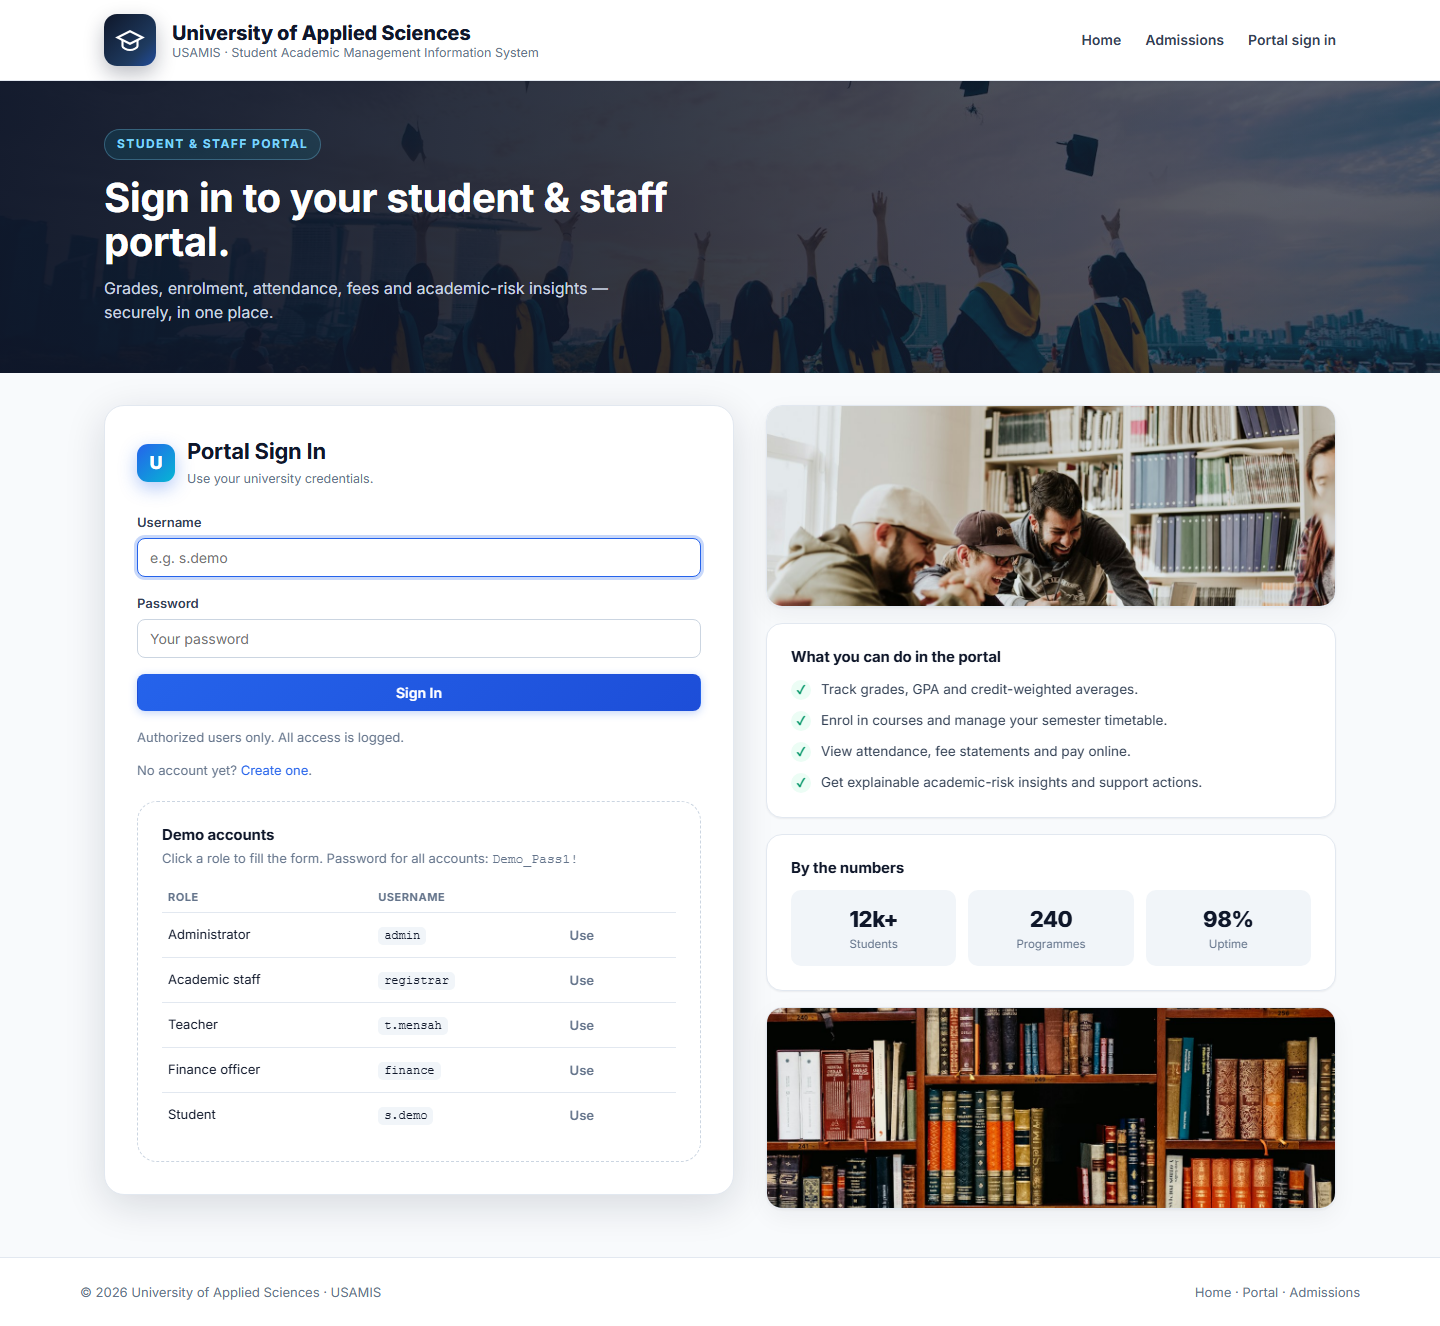
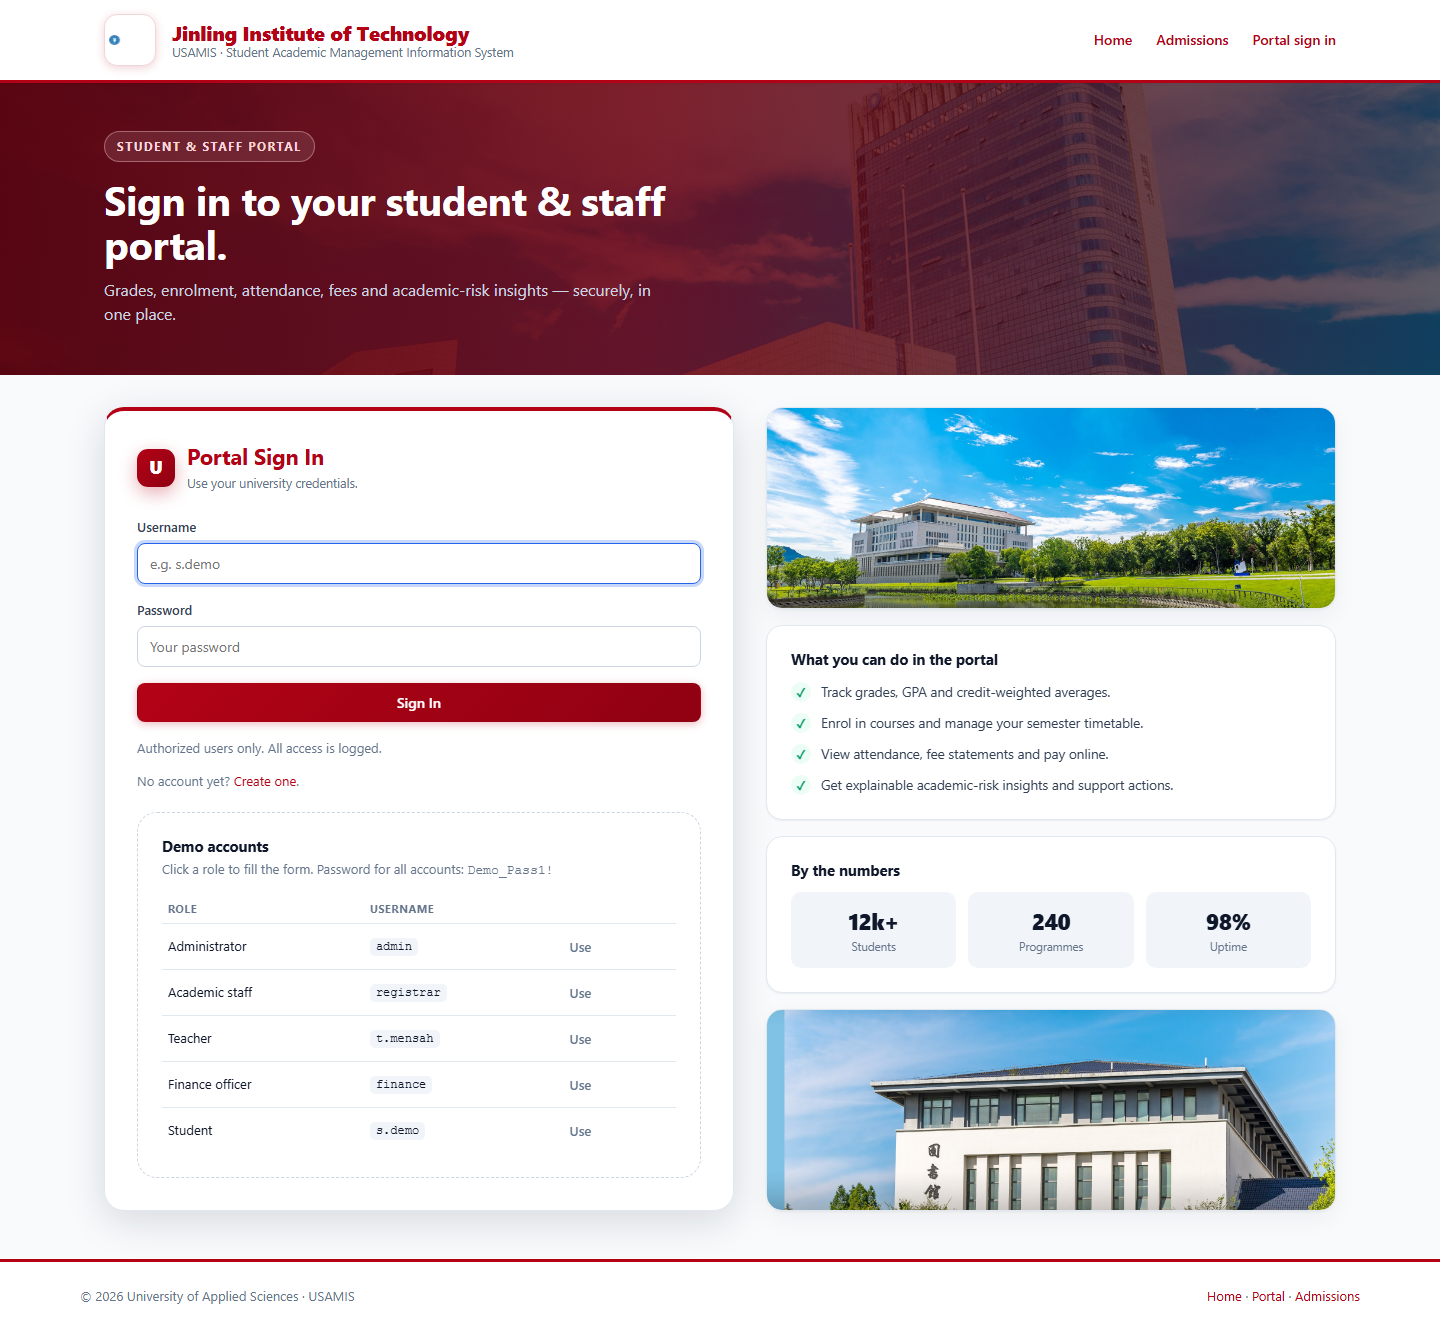
JIT crimson theme for student portal; fix broken classes in payments page
- Public portal + student dashboard re-skinned to JIT institutional crimson
  (#b30216) with authentic JIT logo and campus photography.
- base.html: body carries role-<role> class so the student portal theme
  applies only to students (staff/admin keep the navy app chrome).
- register.html: rebuilt as the split university layout with JIT branding.
- payments/my.html: fixed non-existent CSS classes (form-card/form-grid,
  'btn primary' -> 'btn btn-primary', pill ok/danger -> pill-present/
  pill-rejected) that rendered unstyled; added .card wrapper.
- Added 5 JIT campus photos + JIT crest logo; refreshed screenshots.

Verified: 166 tests pass; 42 role routes return 200; nav grouped and
no broken links; no horizontal overflow on dashboards.

diff --git a/app/templates/auth/register.html b/app/templates/auth/register.html
@@ -1,51 +1,73 @@
 {% extends "public_base.html" %}
 {% block title %}Create Account{% endblock %}
+{% block hero_title %}Create your student account.{% endblock %}
+{% block hero_lede %}New accounts are created as students. Staff and administrator roles are assigned by an administrator.{% endblock %}
 {% block content %}
-<div class="login-card">
-  <div class="login-brand">
-    <span class="brand-mark">U</span>
-    <div>
-      <h1>USAMIS</h1>
-      <p>University Student Academic Management Information System</p>
+<div class="auth-split">
+
+  <div class="login-card">
+    <div class="login-brand">
+      <span class="uni-crest" style="width:44px;height:44px;flex:0 0 44px;">
+        <img src="{{ url_for('static', filename='img/jit-logo.png') }}" alt="JIT crest">
+      </span>
+      <div>
+        <h1 style="font-size:20px;">Create Account</h1>
+        <p>Jinling Institute of Technology · USAMIS</p>
+      </div>
     </div>
+
+    <form method="post" action="{{ url_for('auth.register') }}" class="form">
+      {{ form.hidden_tag() }}
+      <div class="field">
+        {{ form.full_name.label }}
+        {{ form.full_name(class="input", autofocus=true, autocomplete="name", placeholder="Your full name") }}
+        {% for error in form.full_name.errors %}<span class="field-error">{{ error }}</span>{% endfor %}
+      </div>
+      <div class="field">
+        {{ form.username.label }}
+        {{ form.username(class="input", autocomplete="username", placeholder="Choose a username") }}
+        {% for error in form.username.errors %}<span class="field-error">{{ error }}</span>{% endfor %}
+      </div>
+      <div class="field">
+        {{ form.email.label }}
+        {{ form.email(class="input", autocomplete="email", placeholder="you@example.com") }}
+        {% for error in form.email.errors %}<span class="field-error">{{ error }}</span>{% endfor %}
+      </div>
+      <div class="field">
+        {{ form.password.label }}
+        {{ form.password(class="input", autocomplete="new-password", placeholder="Create a password") }}
+        {% for error in form.password.errors %}<span class="field-error">{{ error }}</span>{% endfor %}
+      </div>
+      <div class="field">
+        {{ form.confirm_password.label }}
+        {{ form.confirm_password(class="input", autocomplete="new-password", placeholder="Repeat password") }}
+        {% for error in form.confirm_password.errors %}<span class="field-error">{{ error }}</span>{% endfor %}
+      </div>
+      <button class="btn btn-primary btn-block" type="submit">Create Account</button>
+    </form>
+
+    <p class="muted small">
+      New accounts are created as <strong>students</strong>. Staff and administrator
+      roles are assigned only by an administrator.
+    </p>
+    <p class="muted small">
+      Already registered? <a href="{{ url_for('auth.login') }}">Sign in</a>.
+    </p>
   </div>
 
-  <form method="post" action="{{ url_for('auth.register') }}" class="form">
-    {{ form.hidden_tag() }}
-    <div class="field">
-      {{ form.full_name.label }}
-      {{ form.full_name(class="input", autofocus=true, autocomplete="name") }}
-      {% for error in form.full_name.errors %}<span class="field-error">{{ error }}</span>{% endfor %}
+  <aside class="auth-info">
+    <div class="info-photo">
+      <img src="{{ url_for('static', filename='img/jit-4.jpg') }}" alt="Jinling Institute of Technology campus">
     </div>
-    <div class="field">
-      {{ form.username.label }}
-      {{ form.username(class="input", autocomplete="username") }}
-      {% for error in form.username.errors %}<span class="field-error">{{ error }}</span>{% endfor %}
+    <div class="info-card">
+      <h3>Applying to study at JIT?</h3>
+      <ul class="auth-highlights">
+        <li><span class="tick">✓</span> Create your account to access the student portal.</li>
+        <li><span class="tick">✓</span> Enrol in courses once your student record is created.</li>
+        <li><span class="tick">✓</span> Track grades, attendance and fees in one place.</li>
+      </ul>
     </div>
-    <div class="field">
-      {{ form.email.label }}
-      {{ form.email(class="input", autocomplete="email") }}
-      {% for error in form.email.errors %}<span class="field-error">{{ error }}</span>{% endfor %}
-    </div>
-    <div class="field">
-      {{ form.password.label }}
-      {{ form.password(class="input", autocomplete="new-password") }}
-      {% for error in form.password.errors %}<span class="field-error">{{ error }}</span>{% endfor %}
-    </div>
-    <div class="field">
-      {{ form.confirm_password.label }}
-      {{ form.confirm_password(class="input", autocomplete="new-password") }}
-      {% for error in form.confirm_password.errors %}<span class="field-error">{{ error }}</span>{% endfor %}
-    </div>
-    <button class="btn btn-primary btn-block" type="submit">Create Account</button>
-  </form>
+  </aside>
 
-  <p class="muted small">
-    New accounts are created as <strong>students</strong>. Staff and administrator
-    roles are assigned only by an administrator.
-  </p>
-  <p class="muted small">
-    Already registered? <a href="{{ url_for('auth.login') }}">Sign in</a>.
-  </p>
 </div>
 {% endblock %}

diff --git a/app/static/css/app.css b/app/static/css/app.css
@@ -674,6 +674,70 @@ body.public {
 .grade-hero .gh-ring .gh-val small { display: block; font-size: 10px; font-weight: 600; color: var(--muted); letter-spacing: .06em; text-align: center; }
 .grade-hero .gh-stats { display: grid; grid-template-columns: repeat(auto-fit, minmax(110px, 1fr)); gap: var(--sp-3); flex: 1; min-width: 240px; }
 
+/* ============================================================================
+   JIT institutional theme — crimson brand (Jinling Institute of Technology)
+   Applied to the public portal + student portal. Base palette is unchanged
+   for the authenticated app chrome; this layer re-skins the public surfaces.
+   ========================================================================== */
+
+body.public { --jit: #b30216; --jit-dark: #8f0112; --jit-accent: #2e7374; }
+
+/* ---------- Student portal (authenticated) — JIT crimson ---------- */
+body.role-student { --royal: #b30216; --royal-dark: #8f0112; --info: #b30216; --info-bg: #fdf2f3; }
+body.role-student .sidebar {
+  background: linear-gradient(180deg, #5b010b 0%, #3f0108 100%);
+}
+body.role-student .brand-mark { background: linear-gradient(135deg, #b30216, #8f0112); }
+body.role-student .nav a.is-active,
+body.role-student .nav button.nav-link.is-active {
+  background: linear-gradient(90deg, rgba(179,2,22,.30), rgba(120,2,15,.14));
+  box-shadow: inset 3px 0 0 #ff6b7a;
+}
+body.role-student .progress > span { background: linear-gradient(90deg, #b30216, #ff6b7a); }
+body.role-student .grade-hero .gh-ring { background: conic-gradient(#b30216 calc(var(--p) * 1%), var(--surface-2) 0); }
+body.role-student .welcome-banner { background: linear-gradient(120deg, #5b010b 0%, #7a0210 60%, #a90a1e 100%); }
+body.role-student .welcome-banner::after {
+  background: linear-gradient(90deg, rgba(60,1,8,.95) 0%, rgba(91,1,11,.74) 50%, rgba(20,4,6,.32) 100%);
+}
+body.role-student .welcome-banner .wb-eyebrow { color: #ffd7db; background: rgba(255,255,255,.10); border-color: rgba(255,215,219,.36); }
+body.role-student .welcome-banner .btn-primary { background: linear-gradient(135deg, #ff4d5e, #b30216); }
+body.role-student .course-card .cc-code { background: #fdf2f3; color: #b30216; }
+body.role-student .course-card .cc-top { background: linear-gradient(135deg, #fdf2f3, #fff); }
+
+/* Masthead: crimson institutional bar */
+body.public .uni-masthead { background: #fff; border-bottom: 3px solid var(--jit); }
+body.public .uni-crest {
+  background: #fff; box-shadow: 0 2px 10px rgba(179, 2, 22, .18);
+  border: 1px solid #f0d6d9; padding: 4px; overflow: hidden;
+}
+body.public .uni-crest img { width: 100%; height: 100%; object-fit: contain; }
+body.public .uni-crest svg { display: none; }
+body.public .uni-name { color: var(--jit); }
+body.public .uni-masthead-nav a:hover { color: var(--jit); }
+
+/* Hero: crimson institutional gradient over campus photo */
+body.public .uni-hero::after {
+  background: linear-gradient(90deg, rgba(91,1,11,.95) 0%, rgba(120,2,15,.80) 45%, rgba(20,4,6,.45) 100%);
+}
+body.public .uni-hero-eyebrow {
+  color: #ffd7db; background: rgba(255,255,255,.10); border-color: rgba(255,215,219,.38);
+}
+
+/* Primary actions in crimson */
+body.public .btn-primary {
+  background: linear-gradient(135deg, var(--jit), var(--jit-dark));
+  box-shadow: 0 2px 8px rgba(179,2,22,.28);
+}
+body.public .btn-primary:hover { background: linear-gradient(135deg, var(--jit-dark), var(--jit)); }
+body.public .login-card { border-top: 4px solid var(--jit); }
+body.public .login-card h1 { color: var(--jit); }
+body.public .brand-mark {
+  background: linear-gradient(135deg, var(--jit), var(--jit-dark));
+  box-shadow: 0 6px 18px rgba(179,2,22,.32);
+}
+body.public a { color: var(--jit); }
+body.public .uni-footer { border-top: 3px solid var(--jit); }
+
 /* ---------- Responsive ---------- */
 @media (max-width: 1000px) {
   .grid-2-1 { grid-template-columns: 1fr; }

diff --git a/app/templates/payments/my.html b/app/templates/payments/my.html
@@ -21,20 +21,20 @@
 </div>
 
 {% if balance.balance > 0 %}
-<form method="post" action="{{ url_for('payments.start') }}" class="form-card">
-  <input type="hidden" name="csrf_token" value="{{ csrf_token() }}">
-  <div class="form-grid">
+<div class="card narrow">
+  <form method="post" action="{{ url_for('payments.start') }}" class="form">
+    <input type="hidden" name="csrf_token" value="{{ csrf_token() }}">
     <div class="field">
       <label for="amount">Amount to pay <span class="req">*</span></label>
-      <input type="number" step="0.01" min="0.01" id="amount" name="amount"
+      <input type="number" step="0.01" min="0.01" id="amount" name="amount" class="input"
              value="{{ '%.2f'|format(balance.balance) }}" required>
-      <small class="hint">Maximum {{ '%.2f'|format(balance.balance) }}.</small>
+      <span class="hint">Maximum {{ '%.2f'|format(balance.balance) }}.</span>
     </div>
-  </div>
-  <div class="form-actions">
-    <button class="btn primary" type="submit">Pay now</button>
-  </div>
-</form>
+    <div class="form-actions">
+      <button class="btn btn-primary" type="submit">Pay now</button>
+    </div>
+  </form>
+</div>
 {% else %}
 <div class="empty"><div class="empty-icon">✅</div>You have no outstanding balance.</div>
 {% endif %}
@@ -50,8 +50,8 @@
       <td><code>{{ i.reference }}</code></td>
       <td>{{ i.currency }} {{ '%.2f'|format(i.amount) }}</td>
       <td>
-        {% if i.status == 'paid' %}<span class="pill ok">paid</span>
-        {% elif i.status == 'failed' %}<span class="pill danger">failed</span>
+        {% if i.status == 'paid' %}<span class="pill pill-present">paid</span>
+        {% elif i.status == 'failed' %}<span class="pill pill-rejected">failed</span>
         {% else %}<span class="pill">{{ i.status }}</span>{% endif %}
       </td>
       <td class="muted">{{ i.created_at.strftime('%Y-%m-%d %H:%M') }}</td>

diff --git a/app/templates/public_base.html b/app/templates/public_base.html
@@ -13,10 +13,10 @@
   <header class="uni-masthead">
     <div class="uni-masthead-inner">
       <span class="uni-crest" aria-hidden="true">
-        <svg viewBox="0 0 24 24"><path d="M22 10L12 5 2 10l10 5 10-5z"/><path d="M6 12v5c0 1 3 3 6 3s6-2 6-3v-5"/></svg>
+        <img src="{{ url_for('static', filename='img/jit-logo.png') }}" alt="Jinling Institute of Technology crest">
       </span>
       <div class="uni-titles">
-        <div class="uni-name">University of Applied Sciences</div>
+        <div class="uni-name">Jinling Institute of Technology</div>
         <div class="uni-tagline">USAMIS · Student Academic Management Information System</div>
       </div>
       <nav class="uni-masthead-nav" aria-label="Institution links">
@@ -29,8 +29,8 @@
 
   {% block hero %}
   <section class="uni-hero">
-    <img class="uni-hero-img" src="{{ url_for('static', filename='img/campus-hero.jpg') }}"
-         alt="University campus" loading="eager">
+    <img class="uni-hero-img" src="{{ url_for('static', filename='img/jit-3.jpg') }}"
+         alt="Jinling Institute of Technology campus" loading="eager">
     <div class="uni-hero-inner">
       <span class="uni-hero-eyebrow">Student &amp; Staff Portal</span>
       <h1>{% block hero_title %}Your campus, one secure sign-in.{% endblock %}</h1>

diff --git a/app/templates/auth/login.html b/app/templates/auth/login.html
@@ -59,7 +59,7 @@
   {# ---------- Campus info panel ---------- #}
   <aside class="auth-info">
     <div class="info-photo">
-      <img src="{{ url_for('static', filename='img/students.jpg') }}" alt="Students on campus">
+      <img src="{{ url_for('static', filename='img/jit-5.jpg') }}" alt="Jinling Institute of Technology campus">
     </div>
 
     <div class="info-card">
@@ -82,7 +82,7 @@
     </div>
 
     <div class="info-photo">
-      <img src="{{ url_for('static', filename='img/library.jpg') }}" alt="University library">
+      <img src="{{ url_for('static', filename='img/jit-6.jpg') }}" alt="Jinling Institute of Technology campus">
     </div>
   </aside>
 

diff --git a/app/templates/base.html b/app/templates/base.html
@@ -9,7 +9,7 @@
   <link rel="preconnect" href="https://fonts.gstatic.com" crossorigin>
   <link rel="stylesheet" href="{{ url_for('static', filename='css/app.css') }}">
 </head>
-<body>
+<body{% if current_user.is_authenticated %} class="role-{{ current_user.role }}"{% endif %}>
 {% if current_user.is_authenticated %}
   <a class="skip-link" href="#main-content">Skip to content</a>
   {% macro navlink(endpoint, label, active_prefix, icon) %}
